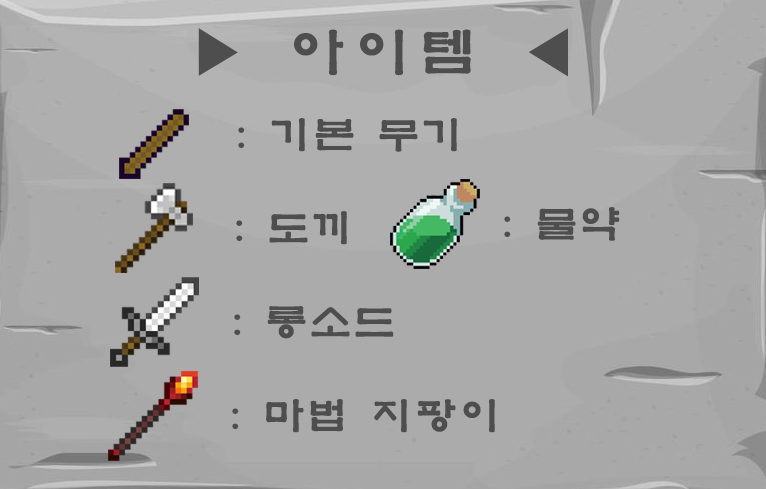
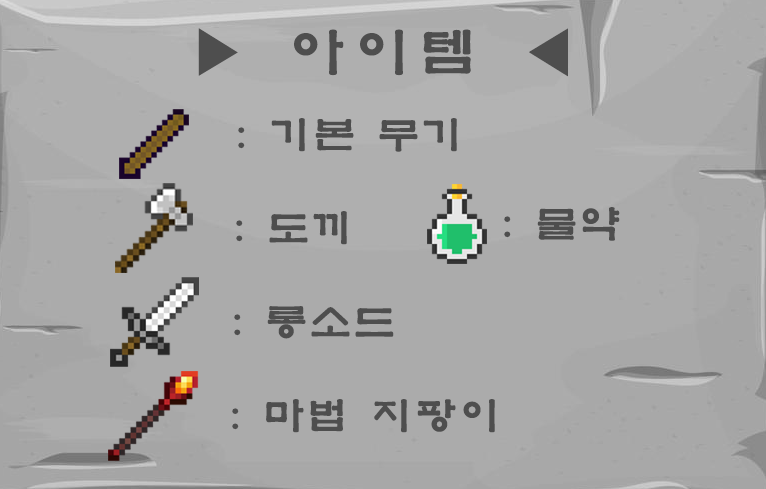
몬스터 조건 추가 + 물약,데쉬 이미지 교체

Changed region(s): [[0.5104, 0.3681, 0.6606, 0.5521]]

diff --git a/Assets/Script/Monster/Monster_Spawn_Manager.cs b/Assets/Script/Monster/Monster_Spawn_Manager.cs
@@ -61,10 +61,18 @@ public class Monster_Spawn_Manager : MonoBehaviour
         {
             Summon_Monsters_For_Map(5, 54, 4);
         }
+    }
 
-        Summon_Mini_Boss();
-
-        Summon_Last_Boss();
+    private void Update()
+    {
+        if (GameManager.gameMgr.nowStage == 6)
+        {
+            Summon_Mini_Boss();
+        }
+        else if (GameManager.gameMgr.nowStage == 8) 
+        {
+            Summon_Last_Boss();
+        }
     }
 
     public void Summon_Monsters_For_Map(int mapIndex, int startIndex, int monsterCount)
